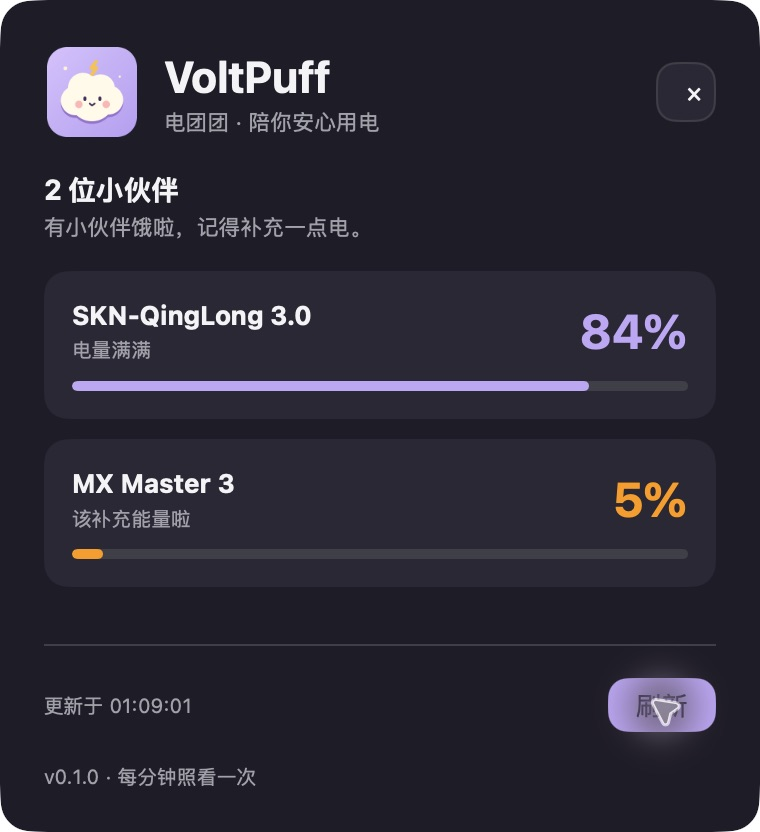
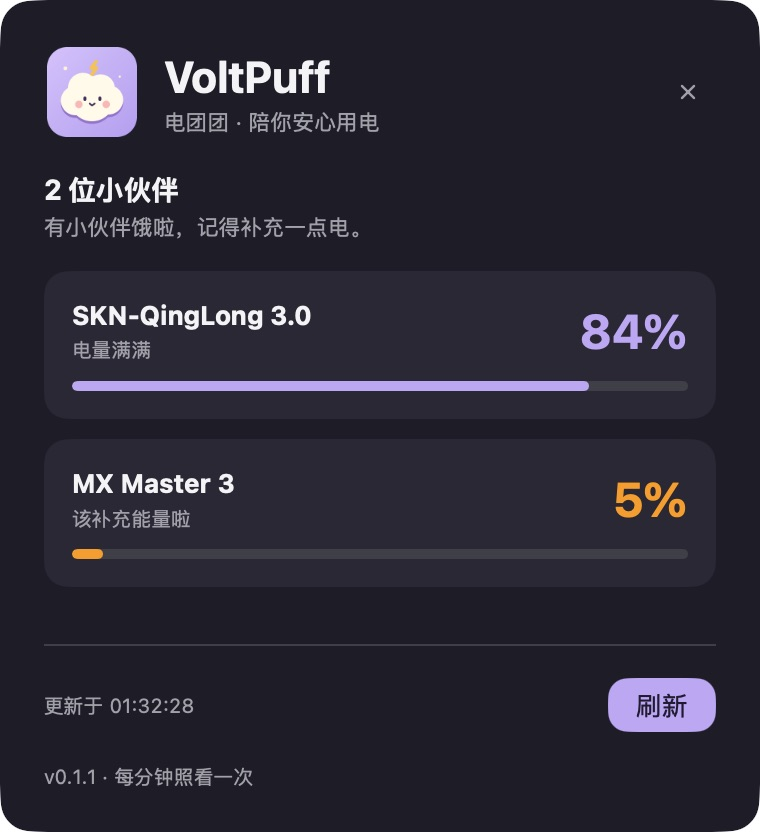
fix: refine panel controls and pin macOS signing identity

diff --git a/main.go b/main.go
@@ -16,7 +16,9 @@ import (
 	"github.com/knothhe/VoltPuff/internal/battery"
 )
 
-const version = "0.1.0"
+const version = "0.1.1"
+
+var dismissIcon = ui.MustParseSVG([]byte(`<svg xmlns="http://www.w3.org/2000/svg" width="16" height="16" viewBox="0 0 16 16"><path d="M4 4L12 12M12 4L4 12" fill="none" stroke="currentColor" stroke-width="1.6" stroke-linecap="round"/></svg>`))
 
 //go:embed assets/tray.png
 var trayPNG []byte
@@ -36,9 +38,11 @@ type puff struct {
 	loading              bool
 	quitting             bool
 	visibilityGeneration uint64
+	showAtStart          bool
 }
 
 func main() {
+	showPanel := flag.Bool("show", false, "open the panel after launch; the default starts in the menu bar only")
 	list := flag.Bool("list", false, "print accessory batteries as JSON without starting the GUI")
 	showVersion := flag.Bool("version", false, "print the version")
 	flag.Parse()
@@ -64,7 +68,7 @@ func main() {
 		return
 	}
 	ctx, cancel := context.WithCancel(context.Background())
-	s := &puff{ctx: ctx, cancel: cancel}
+	s := &puff{ctx: ctx, cancel: cancel, showAtStart: *showPanel}
 	mygo.App.OnBeforeQuit(func(*mygo.QuitEvent) { s.quitting = true; s.cancel() })
 	mygo.App.OnSecondInstance(func([]string, string) {
 		if s.win != nil {
@@ -84,7 +88,7 @@ func (s *puff) ready() {
 		log.Fatal(err)
 	}
 	s.tray, err = mygo.NewTray(mygo.TrayOptions{
-		ID:   "com.knothhe.voltpuff.battery",
+		ID:   "voltpuff.knothhe.com.battery",
 		Icon: trayPNG, IconIsTemplate: true,
 		ToolTip: "电团团 · 正在查看小伙伴的电量…",
 	})
@@ -127,7 +131,10 @@ func (s *puff) ready() {
 		s.tray.PopUpMenu()
 	})
 	mygo.App.OnWillQuit(func(*mygo.QuitEvent) { s.tray.Destroy() })
-	s.show()
+	s.refresh()
+	if s.showAtStart {
+		s.show()
+	}
 	go func() {
 		ticker := time.NewTicker(time.Minute)
 		defer ticker.Stop()
@@ -211,8 +218,12 @@ func (s *puff) dismissAfterBlur() {
 func (s *puff) show() {
 	s.visibilityGeneration++
 	a := s.tray.Bounds()
-	if a.Width == 0 {
-		s.win.Center()
+	if a.Width <= 0 || a.Height <= 0 {
+		// A just-created status item may not have a frame yet. Keep an
+		// explicit show request near the menu bar until its anchor is ready.
+		area := mygo.Screen.PrimaryDisplay().WorkArea
+		b := s.win.Bounds()
+		s.win.SetPosition(area.X+max(0, area.Width-b.Width-12), area.Y+8)
 	} else {
 		area := mygo.Screen.DisplayNearestPoint(mygo.Point{X: a.X + a.Width/2, Y: a.Y + a.Height/2}).WorkArea
 		b := s.win.Bounds()
@@ -253,8 +264,16 @@ func (s *puff) view(c *ui.Context) {
 				ui.Text(c, "VoltPuff").FontSize(22).Bold()
 				ui.Text(c, "电团团 · 陪你安心用电").FontSize(11).TextColor(t.TextMuted)
 			})
-			ui.Button(c, "×").Size(30, 30).Label("收起面板").
+			close := ui.ButtonBase(c.Key("dismiss-panel")).Size(28, 28).Shrink(0).
+				Radius(8).TextColor(t.TextMuted).Label("收起面板").
 				Tooltip("收起面板，电团团继续在菜单栏运行").OnClick(s.dismiss)
+			if close.Hovered() {
+				close.Background(t.SurfaceHover).TextColor(t.Text)
+			}
+			if close.Pressed() {
+				close.Background(t.SurfacePressed)
+			}
+			close.Children(func() { ui.Icon(c, dismissIcon).Size(12, 12) })
 		})
 		ui.Column(c).Gap(4).Children(func() {
 			ui.Textf(c, "%d 位小伙伴", len(s.devices)).FontSize(14).Bold()

diff --git a/README.md b/README.md
@@ -12,7 +12,7 @@
 
 从 [Releases](https://github.com/knothhe/VoltPuff/releases/latest) 下载 Universal DMG 或 ZIP，支持 Apple Silicon 和 Intel Mac，系统要求 macOS 13 或更新版本。
 
-打开 DMG，将 **VoltPuff.app** 拖进「应用程序」，然后启动。应用只显示菜单栏图标，不显示 Dock 图标。
+打开 DMG，将 **VoltPuff.app** 拖进「应用程序」，然后启动。首次启动只显示菜单栏图标，不主动弹出面板，也不显示 Dock 图标；点击菜单栏的小团子才会展开电量面板。
 
 - 点击小团子，查看设备名称、电量和充电状态。
 - 菜单栏显示当前设备中的最低电量；20% 及以下的设备显示暖色提示。
@@ -21,7 +21,20 @@
 - 右键图标可以打开面板、刷新或退出。
 - 单实例运行，避免创建多个菜单栏图标。
 
-v0.1.0 使用 ad-hoc 签名，尚未经过 Apple Developer ID 签名和公证。从网上下载后，macOS Gatekeeper 可能阻止首次启动；可在确认来源后，通过「系统设置 → 隐私与安全性 → 仍要打开」允许启动。也可以在自己的 Mac 上从源码构建。
+### 首次安装：移除下载隔离属性
+
+当前发布包使用固定的本地证书签名，**没有 Apple Developer ID 签名和公证**，macOS 可能提示无法验证开发者或阻止打开。
+
+确认应用来自[本仓库的 Releases](https://github.com/knothhe/VoltPuff/releases)，并把 `VoltPuff.app` 拖入「应用程序」后，在终端执行：
+
+```sh
+xattr -dr com.apple.quarantine /Applications/VoltPuff.app
+open /Applications/VoltPuff.app
+```
+
+此命令只移除这个应用的下载隔离属性。也可以通过「系统设置 → 隐私与安全性 → 仍要打开」允许启动，或从源码构建。
+
+应用的固定 Bundle ID 为 `voltpuff.knothhe.com`。
 
 ## 电量来源
 
@@ -48,11 +61,18 @@ make build    # Universal .app 和 .dmg → build/darwin-universal/
 make release  # DMG、ZIP 和 SHA256SUMS → dist/
 ```
 
-`make release` 会先检查代码，再构建 Apple Silicon / Intel 通用应用并生成校验文件。运行 `make icons` 可重新生成图标；原始绘图代码位于 `internal/artwork`。
+`make release` 会先检查代码，再构建 Apple Silicon / Intel 通用应用并生成校验文件。
+
+默认固定使用 `mygo.json` 中的本地代码签名证书：`Knothhe Local Code Signing`，证书 SHA-1 为 `E10DFA9F3B6BA09808805116D499256837FD8EF4`；不向仓库提交私钥或证书。
+
+其他开发者没有这个证书时，可使用 `make build SIGN=-` 或 `make release SIGN=-` 做 ad-hoc 构建，也可以用 `SIGN="自己的签名身份"` 指定证书。
+
+运行 `make icons` 可重新生成图标；原始绘图代码位于 `internal/artwork`。
 
 也可以通过命令行使用相同的读取逻辑：
 
 ```sh
+go run . -show       # 显式展开面板；默认启动仅显示菜单栏图标
 go run . -list       # JSON，不启动图形界面
 go run . -version
 # 打包后：

diff --git a/CHANGELOG.md b/CHANGELOG.md
@@ -1,5 +1,13 @@
 # Changelog
 
+## v0.1.1 — 2026-10-25
+
+- 右上角收起按钮改为无边框细线图标，仅在悬停和按下时显示轻量反馈。
+- 首次启动只显示菜单栏图标，点击图标后再展开面板。
+- 在图标位置尚不可用时，将显式展开的面板放在屏幕右上方。
+- Bundle ID 固定为 `voltpuff.knothhe.com`，使用固定本地代码签名证书。
+- README 更新实际界面截图及通过移除下载隔离属性安装的方法。
+
 ## v0.1.0 — 2026-10-25
 
 - 首次发布 VoltPuff · 电团团，使用 MyGo 原生 UI。
